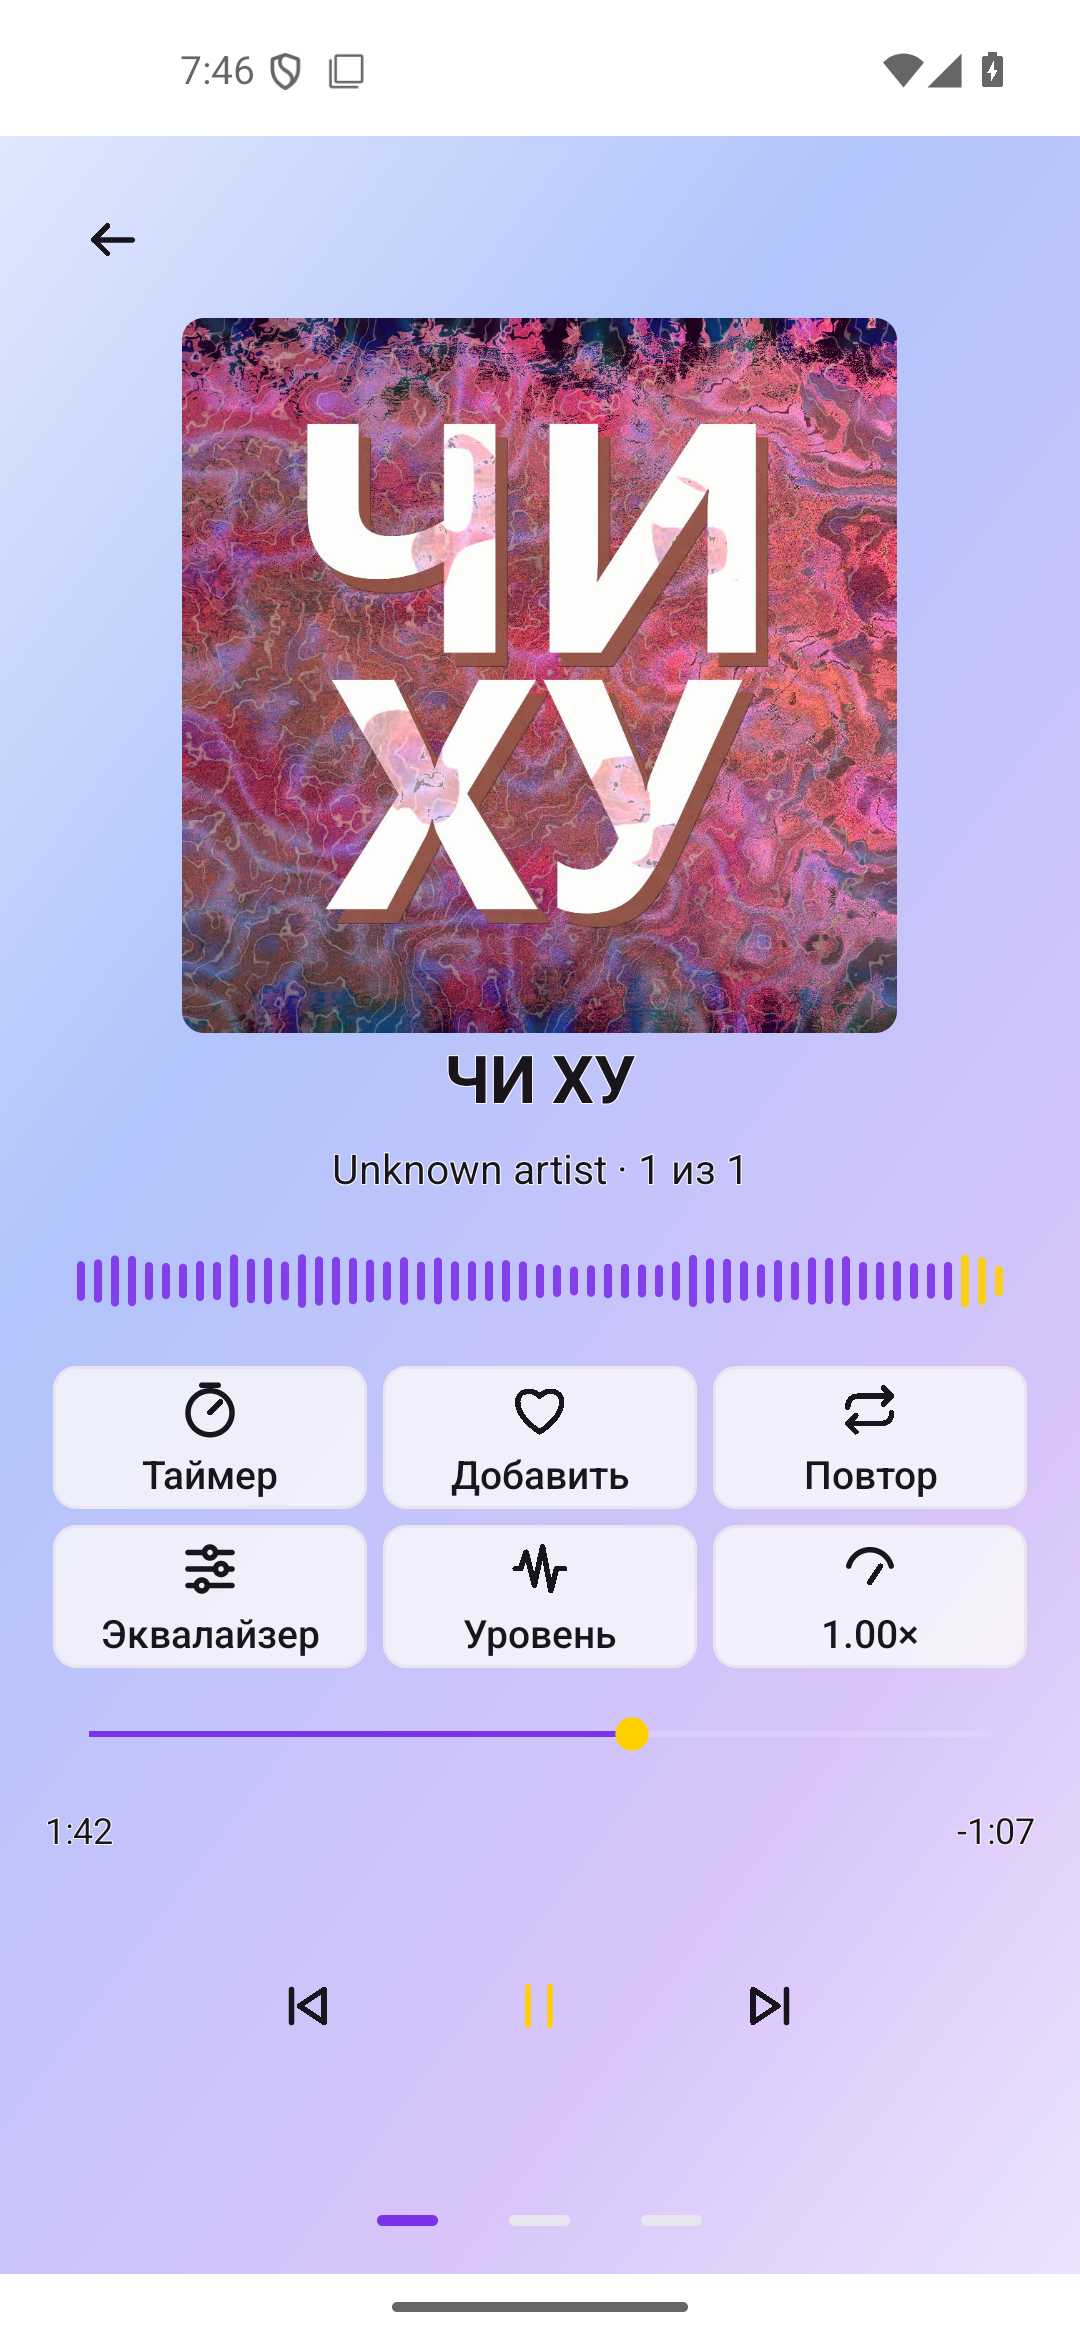
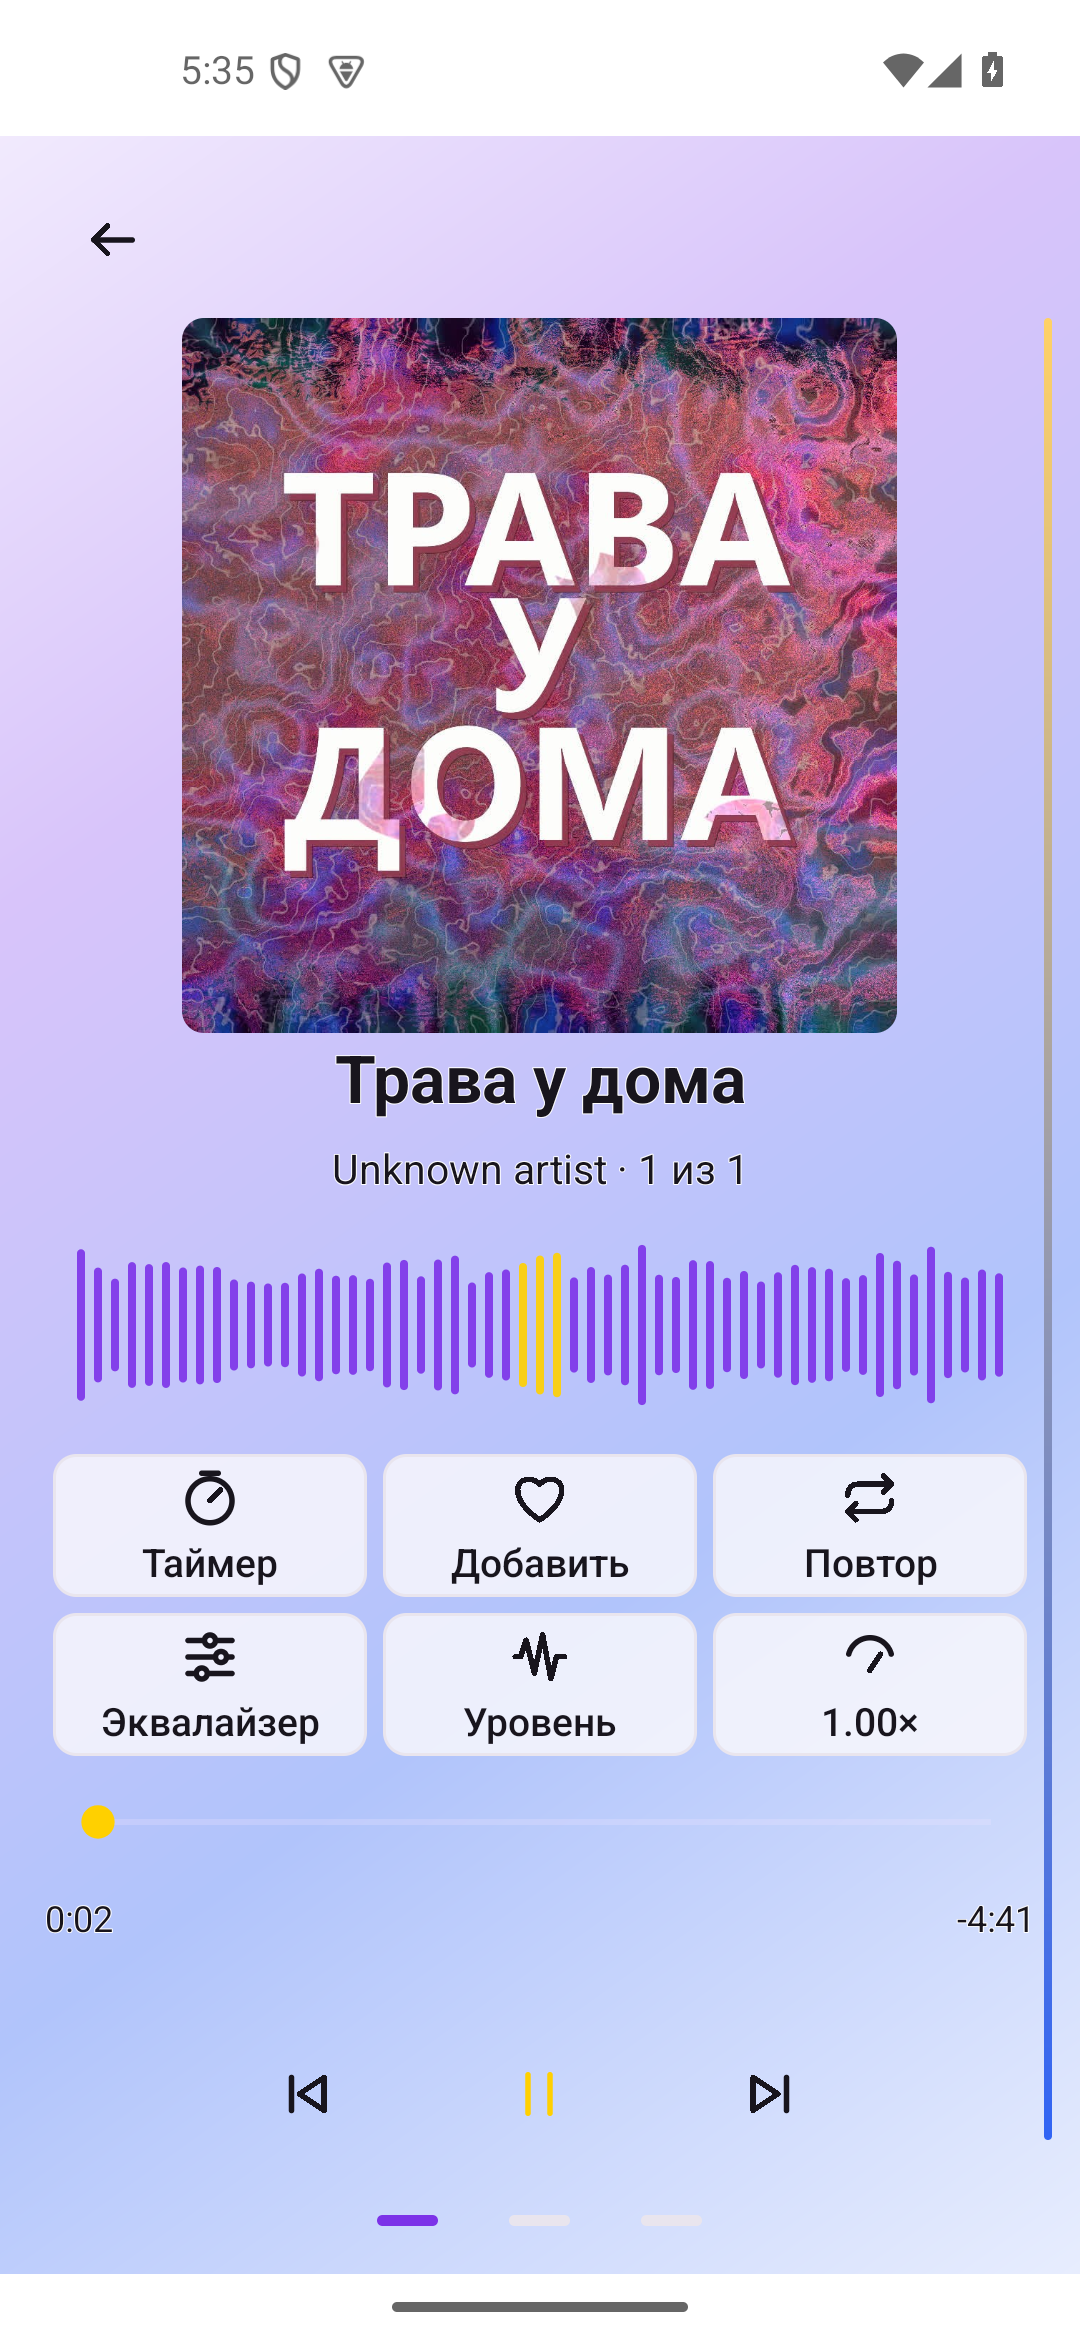
Улучшить визуализатор большого плеера на всю ширину

diff --git a/app/src/main/java/com/dumuzeyn/mp3player/PlaybackVisualizerBuffer.kt b/app/src/main/java/com/dumuzeyn/mp3player/PlaybackVisualizerBuffer.kt
@@ -5,73 +5,66 @@ import java.nio.ByteBuffer
 import java.nio.ByteOrder
 import kotlin.math.sqrt
 
-/** A short PCM level history, fed by the playback sink without microphone access. */
+/** One full-width level frame from playback PCM, without microphone access. */
 @androidx.annotation.OptIn(androidx.media3.common.util.UnstableApi::class)
 internal class PlaybackVisualizerBuffer : TeeAudioProcessor.AudioBufferSink {
-    private val levels = FloatArray(96)
-    private var next = 0
-    private var size = 0
-    private var format: AudioPcmFormat? = null
+    @Volatile private var levels = FloatArray(BARS)
+    @Volatile private var format: AudioPcmFormat? = null
     @Volatile private var enabled = false
+    @Volatile private var generation = 0
 
     fun setEnabled(value: Boolean) {
         enabled = value
-        if (!value) synchronized(this) {
-            levels.fill(0f)
-            next = 0
-            size = 0
+        if (!value) {
+            generation++
+            levels = FloatArray(BARS)
         }
     }
 
     override fun flush(sampleRateHz: Int, channelCount: Int, encoding: Int) {
-        val configured = runCatching { AudioPcmFormat(sampleRateHz, channelCount, encoding) }.getOrNull()
-        synchronized(this) {
-            format = configured
-            levels.fill(0f)
-            next = 0
-            size = 0
-        }
+        format = runCatching { AudioPcmFormat(sampleRateHz, channelCount, encoding) }.getOrNull()
+        generation++
+        levels = FloatArray(BARS)
     }
 
     override fun handleBuffer(buffer: ByteBuffer) {
         if (!enabled) return
-        val current = synchronized(this) { format } ?: return
+        val current = format ?: return
+        val currentGeneration = generation
         val pcm = buffer.duplicate().order(ByteOrder.LITTLE_ENDIAN)
         val frames = pcm.remaining() / current.frameBytes
         if (frames == 0) return
-        val step = (current.sampleRate / 300).coerceAtLeast(1)
-        var power = 0.0
-        var sampled = 0
-        for (frame in 0 until frames step step) {
-            pcm.position(buffer.position() + frame * current.frameBytes)
-            repeat(current.channels) {
-                val sample = current.sample(pcm).toDouble()
-                power += sample * sample
-                sampled++
+        val frameLevels = FloatArray(BARS)
+        val startPosition = buffer.position()
+        for (bar in frameLevels.indices) {
+            val first = bar * frames / BARS
+            val last = maxOf(first + 1, (bar + 1) * frames / BARS)
+            val step = maxOf(1, (last - first) / 8)
+            var power = 0.0
+            var sampled = 0
+            for (frame in first until last step step) {
+                pcm.position(startPosition + frame * current.frameBytes)
+                repeat(current.channels) {
+                    val sample = current.sample(pcm).toDouble()
+                    power += sample * sample
+                    sampled++
+                }
             }
+            frameLevels[bar] = sqrt(power / sampled).toFloat().coerceIn(0f, 1f)
         }
-        val level = sqrt(power / sampled).toFloat().coerceIn(0f, 1f)
-        if (!enabled) return
-        synchronized(this) {
-            levels[next] = level
-            next = (next + 1) % levels.size
-            size = (size + 1).coerceAtMost(levels.size)
-        }
+        if (enabled && currentGeneration == generation) levels = frameLevels
     }
 
     fun snapshot(bars: Int): FloatArray {
         require(bars > 0)
-        return synchronized(this) {
-            FloatArray(bars).also { result ->
-                val count = minOf(size, bars)
-                for (index in 0 until count) {
-                    result[bars - count + index] = levels[(next - count + index + levels.size) % levels.size]
-                }
-            }
+        val frame = levels
+        return FloatArray(bars) { index ->
+            frame[(index.toLong() * frame.size / bars).toInt()]
         }
     }
 
     companion object {
+        private const val BARS = 96
         val shared = PlaybackVisualizerBuffer()
     }
 }

diff --git a/app/src/main/java/com/dumuzeyn/mp3player/FullPlayerVisualizerView.kt b/app/src/main/java/com/dumuzeyn/mp3player/FullPlayerVisualizerView.kt
@@ -3,12 +3,16 @@ package com.dumuzeyn.mp3player
 import android.graphics.Canvas
 import android.graphics.Paint
 import android.view.View
-import kotlin.math.sqrt
+import kotlin.math.pow
 
 /** Draws live playback levels only while the full player is visible. */
-internal class FullPlayerVisualizerView(private val host: MainActivityCore) : View(host), AutoCloseable {
+internal class FullPlayerVisualizerView(
+    private val host: MainActivityCore,
+    private val isPlaying: () -> Boolean,
+) : View(host), AutoCloseable {
     private val paint = Paint(Paint.ANTI_ALIAS_FLAG)
     private var active = false
+    private var displayed = FloatArray(0)
 
     init {
         contentDescription = host.tr("Audio visualizer", "Аудиовизуализатор")
@@ -19,6 +23,7 @@ internal class FullPlayerVisualizerView(private val host: MainActivityCore) : Vi
         if (active == value) return
         active = value
         PlaybackVisualizerBuffer.shared.setEnabled(value)
+        if (!value) displayed = FloatArray(0)
         invalidate()
     }
 
@@ -26,20 +31,33 @@ internal class FullPlayerVisualizerView(private val host: MainActivityCore) : Vi
         super.onDraw(canvas)
         val pitch = host.dp(6).toFloat()
         val count = (width / pitch).toInt().coerceAtLeast(1)
-        val samples = PlaybackVisualizerBuffer.shared.snapshot(count)
+        val samples = if (active && isPlaying()) {
+            PlaybackVisualizerBuffer.shared.snapshot(count)
+        } else {
+            FloatArray(count)
+        }
+        if (displayed.size != count) displayed = FloatArray(count)
+        val quietest = samples.minOrNull() ?: 0f
+        val spread = ((samples.maxOrNull() ?: 0f) - quietest).coerceAtLeast(0.01f)
+        val loudness = (samples.average().toFloat() * 3f).coerceIn(0f, 1f).pow(0.55f)
         val barWidth = host.dp(3).toFloat()
         val baseline = height / 2f
         val maxHalfHeight = (height - host.dp(6)) / 2f
         val left = (width - (count - 1) * pitch - barWidth) / 2f
         for (index in samples.indices) {
-            val halfHeight = host.dp(2) / 2f + sqrt(samples[index]) * (maxHalfHeight - host.dp(2) / 2f)
-            paint.color = if (index >= count - 3) host.yellow else host.purple
-            paint.alpha = if (samples[index] > 0f) 230 else 65
+            val contrast = ((samples[index] - quietest) / spread).coerceIn(0f, 1f)
+            val target = if (samples[index] < 0.002f) 0f else
+                (0.28f + 0.24f * loudness + 0.48f * contrast).coerceAtMost(1f)
+            val response = if (target > displayed[index]) 0.8f else 0.6f
+            displayed[index] += (target - displayed[index]) * response
+            val halfHeight = host.dp(2) / 2f + displayed[index] * (maxHalfHeight - host.dp(2) / 2f)
+            paint.color = if (index in count / 2 - 1..count / 2 + 1) host.yellow else host.purple
+            paint.alpha = if (displayed[index] > 0.02f) 230 else 65
             val x = left + index * pitch
             canvas.drawRoundRect(x, baseline - halfHeight, x + barWidth, baseline + halfHeight,
                 barWidth / 2f, barWidth / 2f, paint)
         }
-        if (active) postInvalidateDelayed(50L)
+        if (active) postInvalidateDelayed(33L)
     }
 
     override fun close() {

diff --git a/app/src/test/java/com/dumuzeyn/mp3player/PlaybackVisualizerBufferTest.kt b/app/src/test/java/com/dumuzeyn/mp3player/PlaybackVisualizerBufferTest.kt
@@ -19,7 +19,8 @@ class PlaybackVisualizerBufferTest {
         visualizer.handleBuffer(audio)
 
         assertEquals(0, audio.position())
-        assertTrue(visualizer.snapshot(4).last() in 0.49f..0.51f)
+        val bars = visualizer.snapshot(48)
+        assertTrue(bars.all { it in 0.49f..0.51f })
     }
 
     @Test fun disablingAndFlushDiscardStaleLevels() {
@@ -34,5 +35,38 @@ class PlaybackVisualizerBufferTest {
         visualizer.setEnabled(true)
         visualizer.flush(44_100, 2, AudioFormat.ENCODING_PCM_16BIT)
         assertEquals(0f, visualizer.snapshot(1)[0], 0f)
+    }
+
+    @Test fun eachNewPcmBufferUpdatesTheWholeWidth() {
+        val visualizer = PlaybackVisualizerBuffer()
+        visualizer.flush(48_000, 1, AudioFormat.ENCODING_PCM_16BIT)
+        visualizer.setEnabled(true)
+        val quiet = ByteBuffer.allocate(960).order(ByteOrder.LITTLE_ENDIAN)
+        repeat(480) { quiet.putShort(2_048) }
+        quiet.flip()
+        visualizer.handleBuffer(quiet)
+        assertTrue(visualizer.snapshot(48).all { it in 0.06f..0.07f })
+
+        val loud = ByteBuffer.allocate(960).order(ByteOrder.LITTLE_ENDIAN)
+        repeat(480) { loud.putShort(16_384) }
+        loud.flip()
+        visualizer.handleBuffer(loud)
+        assertTrue(visualizer.snapshot(48).all { it in 0.49f..0.51f })
+    }
+
+    @Test fun differentPartsOfTheSameBufferProduceDifferentBarHeights() {
+        val visualizer = PlaybackVisualizerBuffer()
+        visualizer.flush(48_000, 1, AudioFormat.ENCODING_PCM_16BIT)
+        visualizer.setEnabled(true)
+        val audio = ByteBuffer.allocate(960).order(ByteOrder.LITTLE_ENDIAN)
+        repeat(240) { audio.putShort(16_384) }
+        repeat(240) { audio.putShort(2_048) }
+        audio.flip()
+
+        visualizer.handleBuffer(audio)
+
+        val bars = visualizer.snapshot(48)
+        assertTrue(bars.take(24).all { it > 0.49f })
+        assertTrue(bars.drop(24).all { it < 0.07f })
     }
 }

diff --git a/app/src/main/java/com/dumuzeyn/mp3player/FullPlayerPlaybackPage.kt b/app/src/main/java/com/dumuzeyn/mp3player/FullPlayerPlaybackPage.kt
@@ -52,8 +52,8 @@ internal class FullPlayerPlaybackPage(
         createdRoot.addView(content, FrameLayout.LayoutParams(-1, -2))
         val track = state.currentTrack() ?: return createdRoot
         addCoverAndTitle(content, track)
-        visualizer = FullPlayerVisualizerView(host).also {
-            content.addView(it, LinearLayout.LayoutParams(-1, host.dp(48)).apply {
+        visualizer = FullPlayerVisualizerView(host, state::isPlaying).also {
+            content.addView(it, LinearLayout.LayoutParams(-1, host.dp(80)).apply {
                 setMargins(host.dp(8), 0, host.dp(8), host.dp(4))
             })
         }
